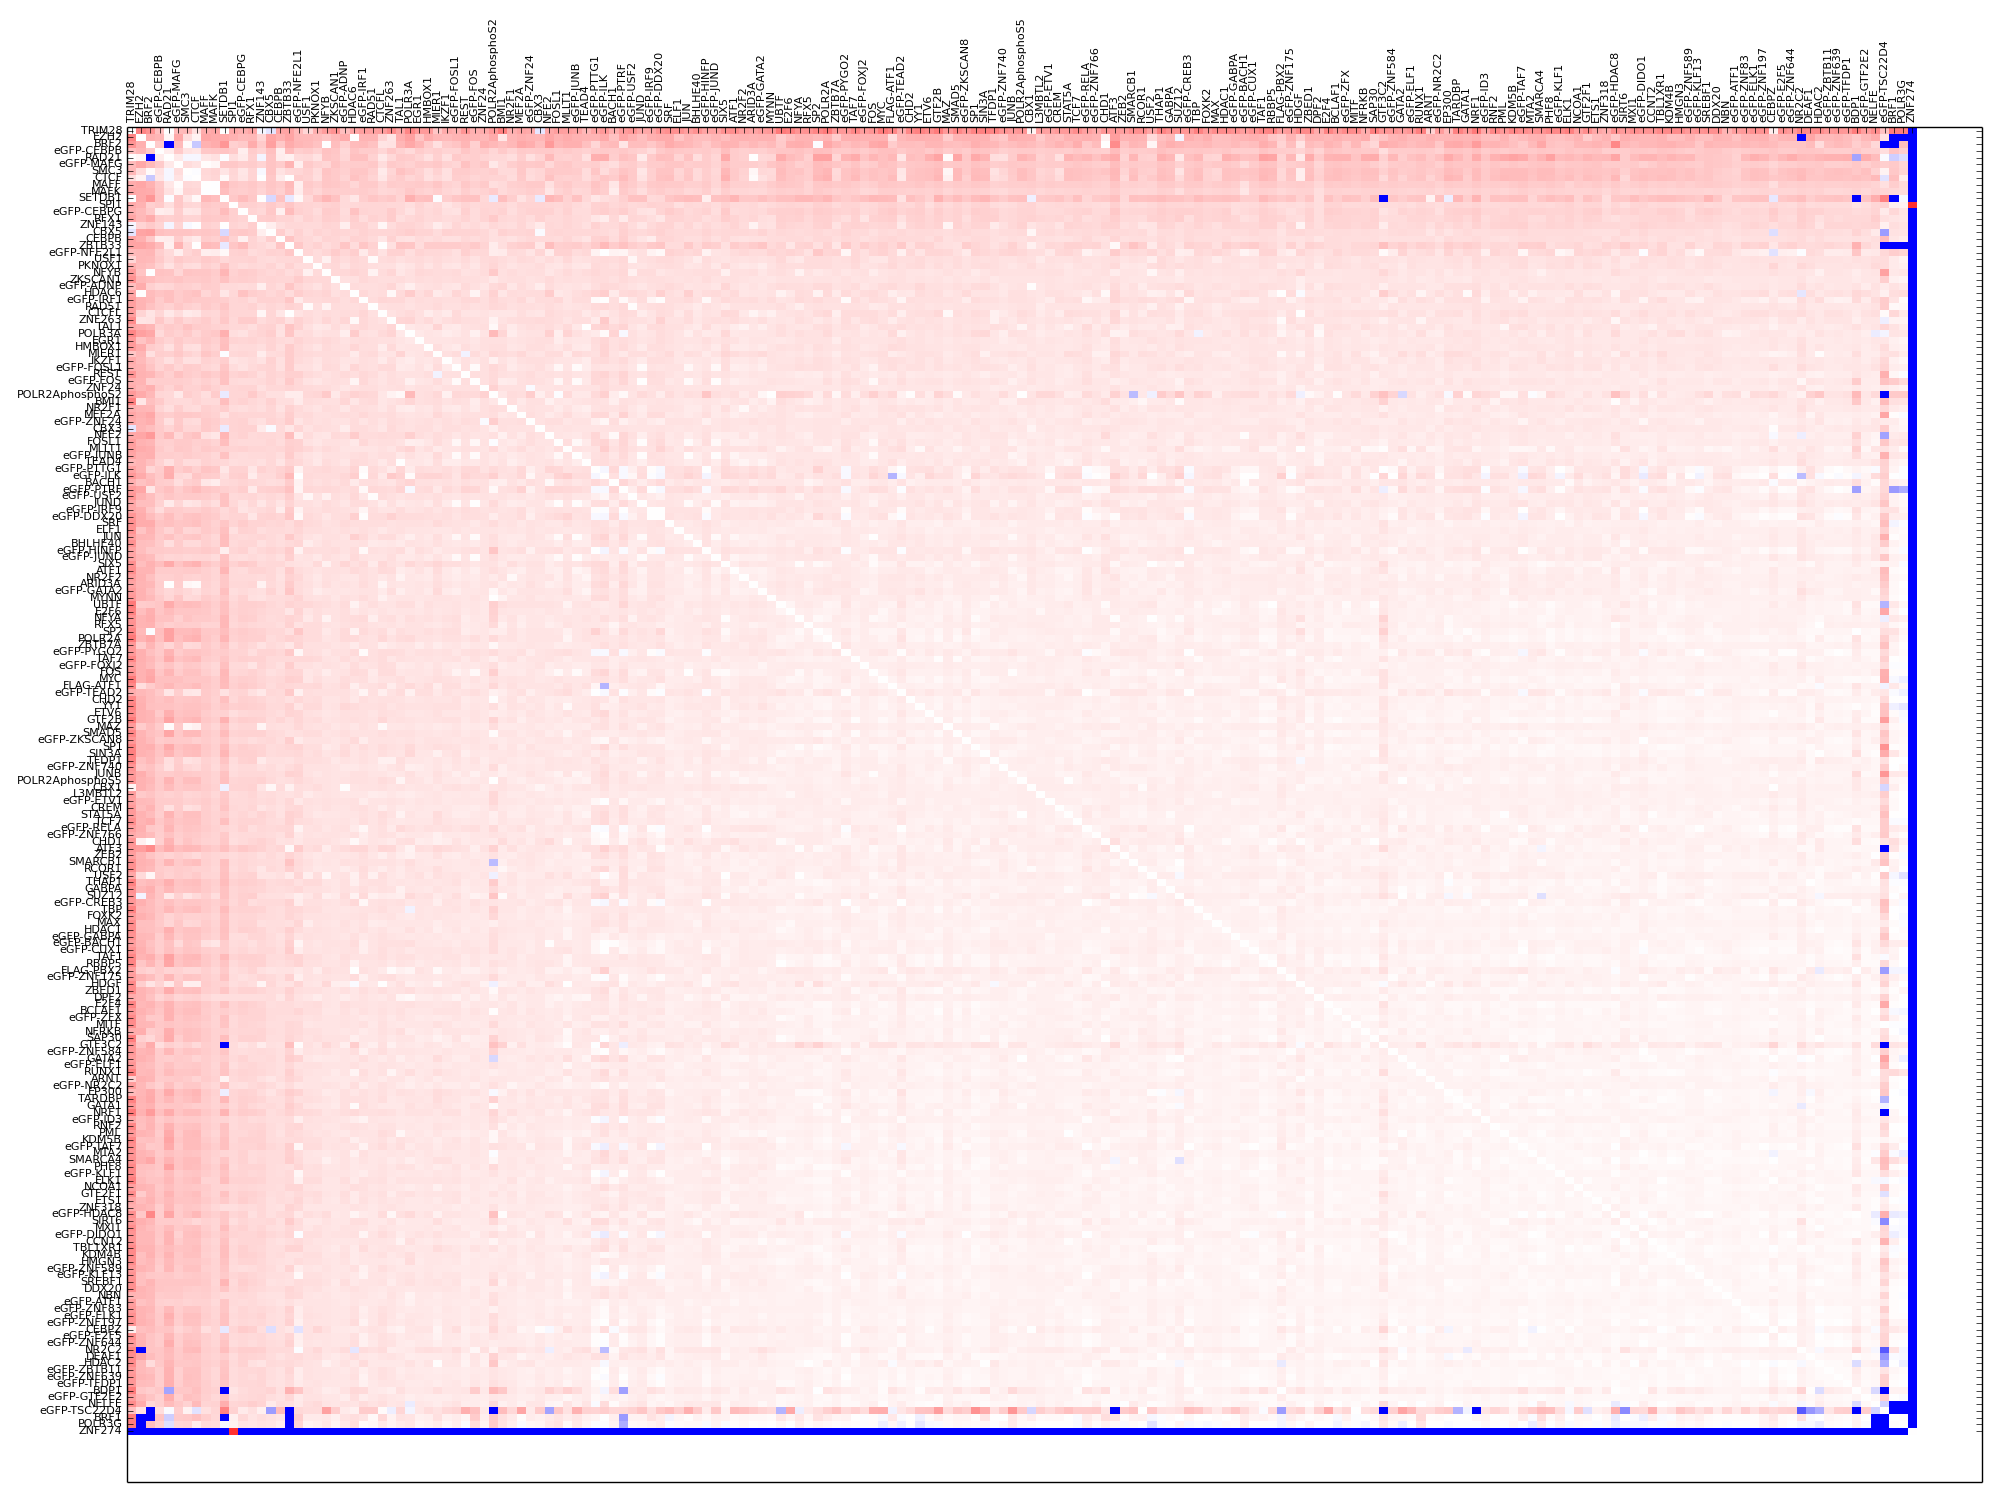
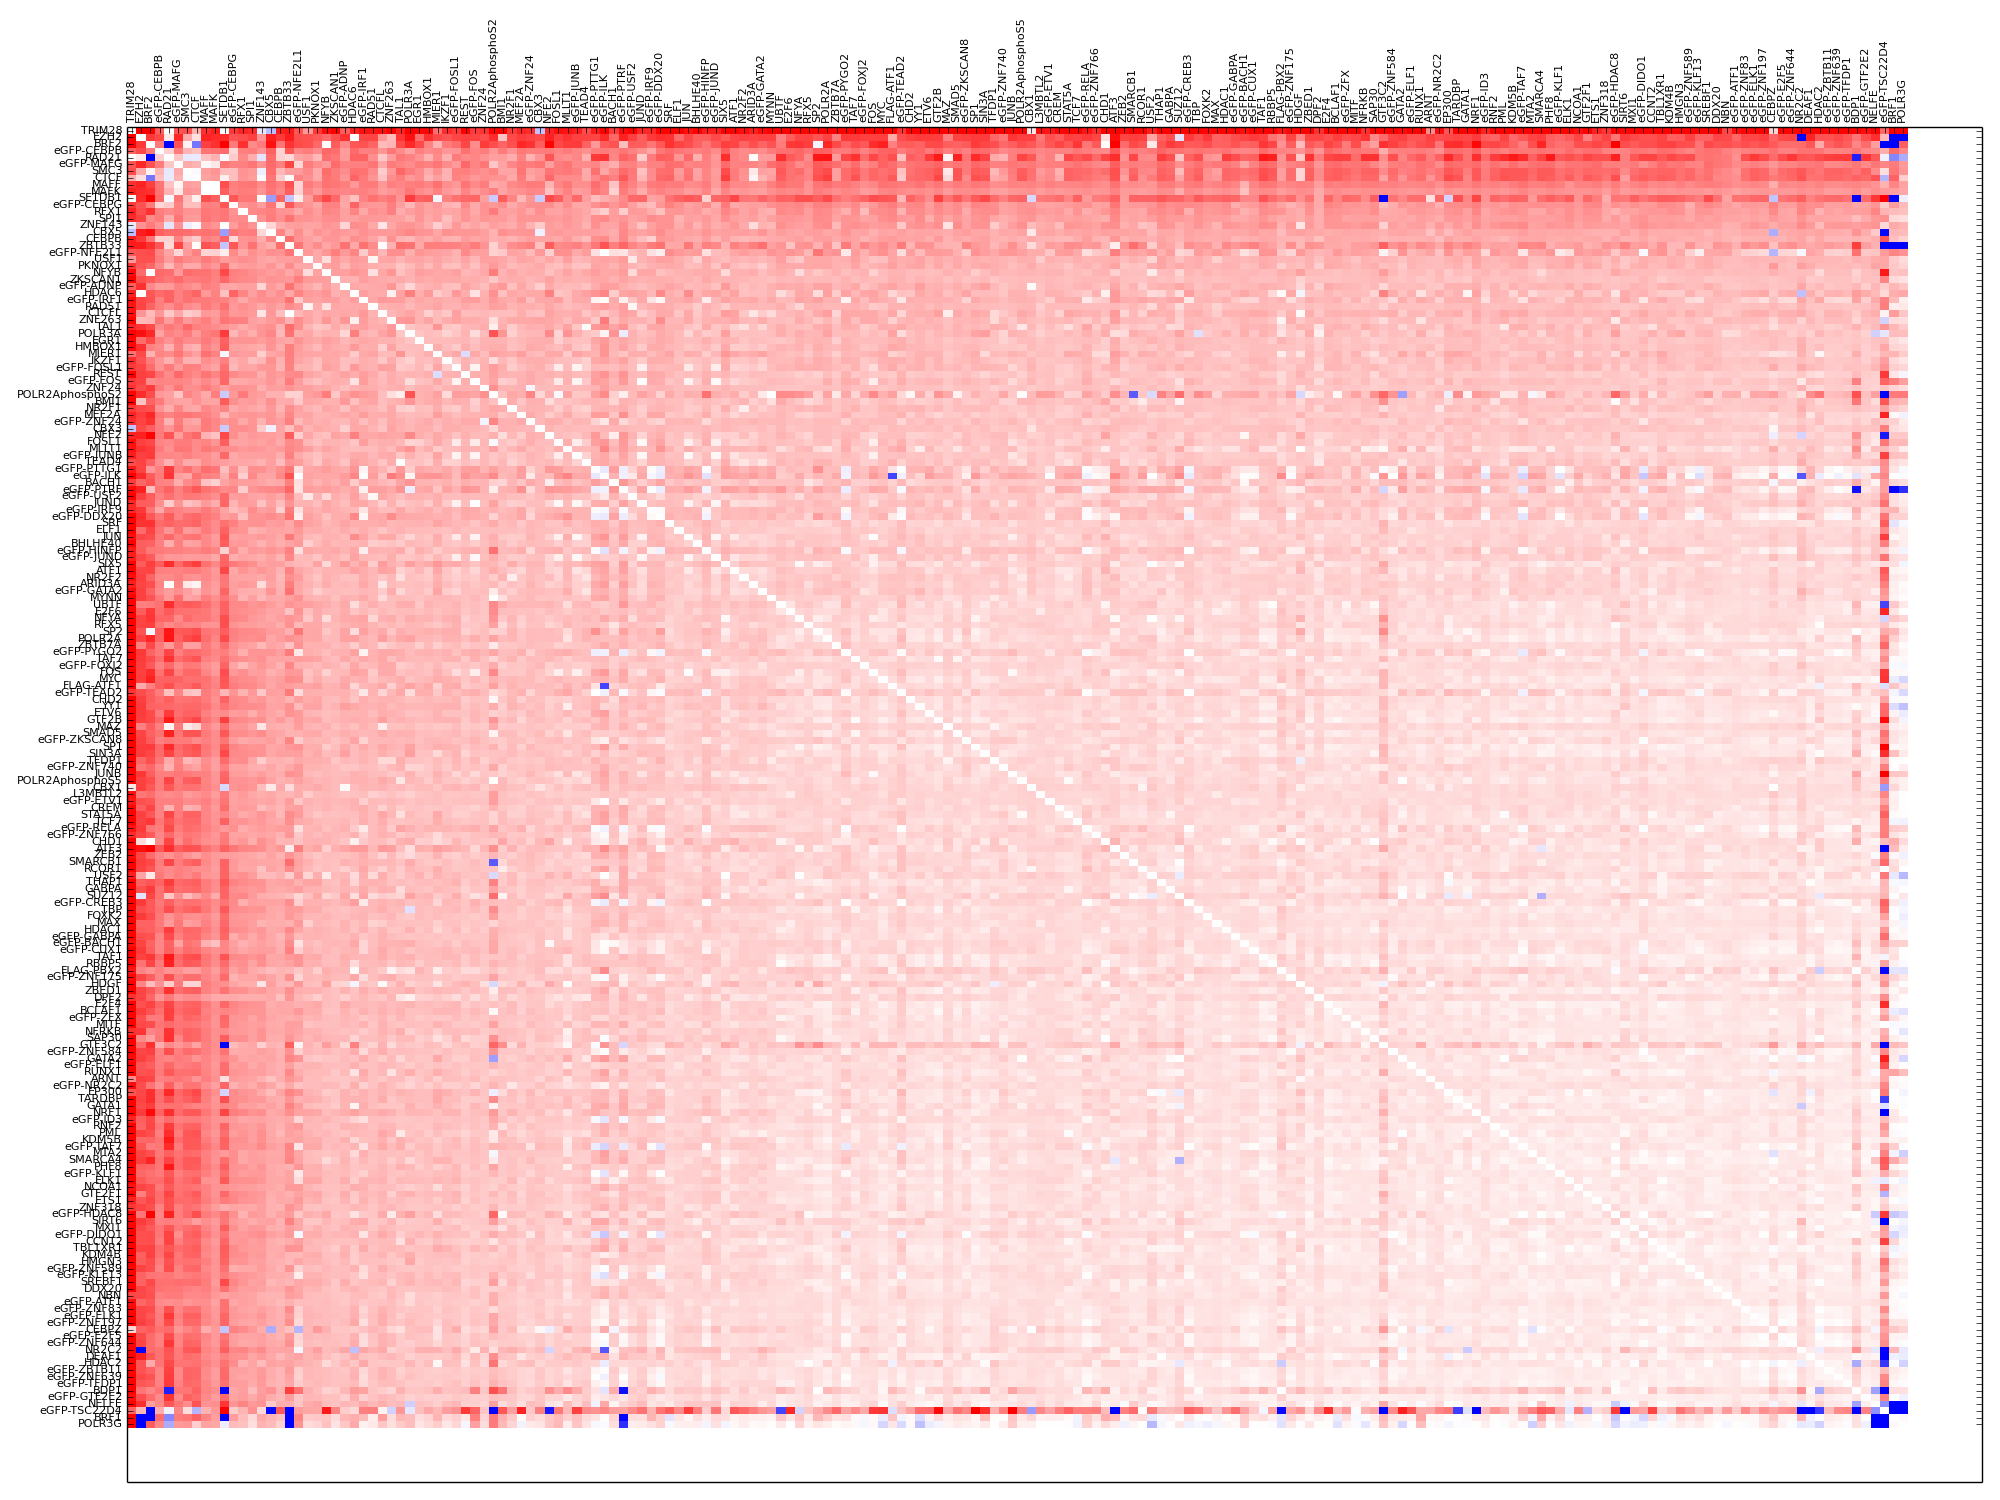
updates

diff --git a/src/create_matrix.py b/src/create_matrix.py
@@ -10,6 +10,9 @@ from operator import itemgetter
 import numpy as np
 from scipy.cluster.hierarchy import dendrogram,linkage
 import math
+import scipy
+import pylab
+import scipy.cluster.hierarchy as sch
 
 def run(files,figures):
     S = dict()
@@ -85,21 +88,62 @@ def run(files,figures):
     
     vectors = np.array(vectors)
             
-    fig, ax = plt.subplots()
-    print np.mean(M)+(np.std(M)*2)
-    heatmap = ax.pcolor(vectors, cmap=plt.cm.bwr, vmin=-2, vmax=2)
+   # fig, ax = plt.subplots()
+   # print np.mean(M)+(np.std(M)*2)
+   # heatmap = ax.pcolor(vectors, cmap=plt.cm.bwr, vmin=-2, vmax=2)
+   # 
+   # 
+   ## put the major ticks at the middle of each cell
+   # ax.set_xticks(np.arange(vectors.shape[0])+0.5, minor=False)
+   # ax.set_yticks(np.arange(vectors.shape[1])+0.5, minor=False)
+   # 
+   # # want a more natural, table-like display
+   # ax.invert_yaxis()
+   # ax.xaxis.tick_top()
+   # 
+   # ax.set_xticklabels(labels, minor=False, fontsize=8)
+   # ax.set_yticklabels(labels, minor=False, fontsize=8)
+   # plt.xticks(rotation=90)
+   # fig.set_size_inches(20, 15,forward=True)
+   # plt.savefig(figures + 'matrix.png')
+   
+    # Generate random features and distance matrix.
+    x = len(labels)
+    D = scipy.zeros([x,x])
+    for i in range(x):
+        for j in range(x):
+            if j != i:
+                for k in range(x):                    
+                    D[i,j] += (vectors[i][k] - vectors[j][k])**2
+                D[i,j] = math.sqrt(D[i,j])
     
+    # Compute and plot first dendrogram.
+    fig = pylab.figure(figsize=(8,8))
+    ax1 = fig.add_axes([0.09,0.1,0.2,0.6])
+    Y = sch.linkage(D, method='centroid')
+    Z1 = sch.dendrogram(Y, orientation='right')
+    ax1.set_xticks([])
+    ax1.set_yticks([])
     
-   # put the major ticks at the middle of each cell
-    ax.set_xticks(np.arange(vectors.shape[0])+0.5, minor=False)
-    ax.set_yticks(np.arange(vectors.shape[1])+0.5, minor=False)
+    # Compute and plot second dendrogram.
+    ax2 = fig.add_axes([0.3,0.71,0.6,0.2])
+    Y = sch.linkage(D, method='single')
+    Z2 = sch.dendrogram(Y)
+    ax2.set_xticks([])
+    ax2.set_yticks([])
     
-    # want a more natural, table-like display
-    ax.invert_yaxis()
-    ax.xaxis.tick_top()
+    # Plot distance matrix.
+    axmatrix = fig.add_axes([0.3,0.1,0.6,0.6])
+    idx1 = Z1['leaves']
+    idx2 = Z2['leaves']
+    D = D[idx1,:]
+    D = D[:,idx2]
+    im = axmatrix.matshow(D, aspect='auto', origin='lower', cmap=pylab.cm.YlGnBu)
+    axmatrix.set_xticks([])
+    axmatrix.set_yticks([])
     
-    ax.set_xticklabels(labels, minor=False, fontsize=8)
-    ax.set_yticklabels(labels, minor=False, fontsize=8)
-    plt.xticks(rotation=90)
-    fig.set_size_inches(20, 15,forward=True)
-    plt.savefig(figures + 'matrix.png')
+    # Plot colorbar.
+    axcolor = fig.add_axes([0.91,0.1,0.02,0.6])
+    pylab.colorbar(im, cax=axcolor)
+    fig.show()
+    fig.savefig(figures + 'dendrogram.png')
